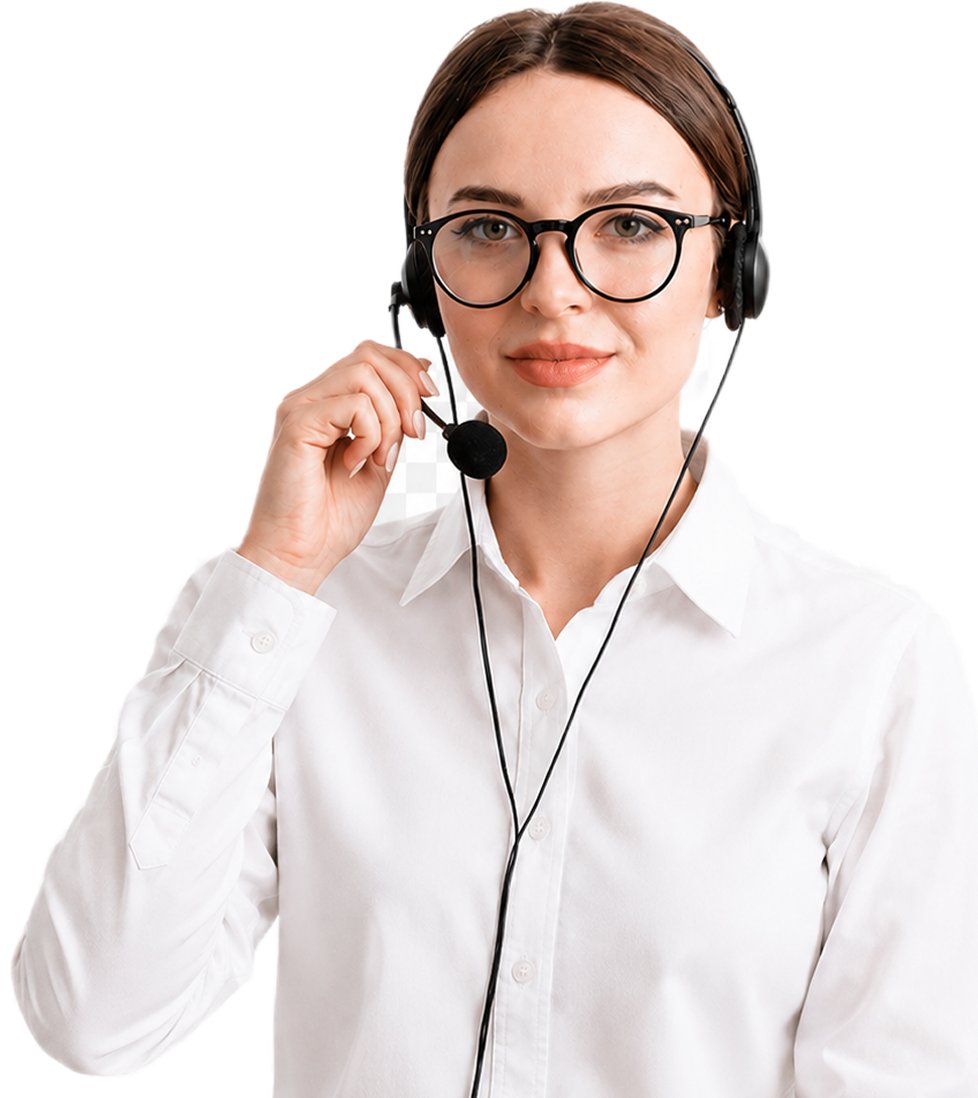
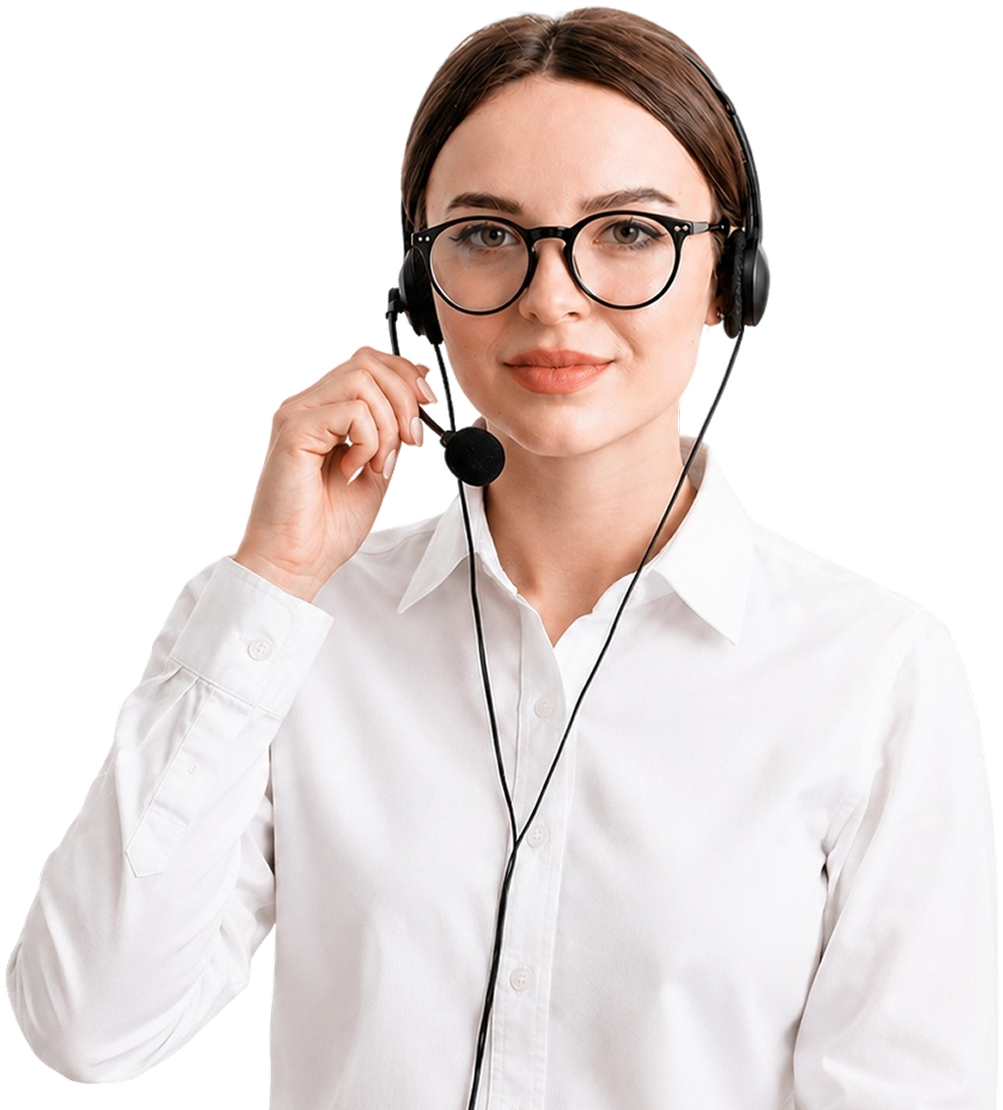
fix

diff --git a/app/paid-services.html b/app/paid-services.html
@@ -154,7 +154,7 @@
                 <p class="text-grayDark leading-[1.875]">Берём на&nbsp;себя показы и&nbsp;переговоры с&nbsp;арендаторами</p>
             </div>
             <div>
-                <h3 class="title-4-25 mb-4 md1:mb-3">Проконсультируем по&nbsp;юридическим вопросам</h3>
+                <h3 class="title-4-25 mb-4 md1:mb-3">Проконсультируем по юридическим вопросам</h3>
                 <p class="text-grayDark leading-[1.875]">Учитываем все нюансы аренды и&nbsp;особенности вашего обьекта</p>
             </div>
             <div>
@@ -208,7 +208,7 @@
             </picture>
         </div>
         <div
-            class="mt-5 md1:mt-4 bg-orangeLight rounded-32 md1:rounded-3xl overflow-hidden p-11 md1:px-6 md1:py-8 flex items-center justify-between relative gap-12 md2:gap-6 md2:flex-col">
+            class="mt-5 md1:mt-4 bg-orangeLight rounded-32 md1:rounded-3xl overflow-hidden p-10 md1:px-6 md1:py-8 flex items-center justify-between relative gap-12 md2:gap-6 md2:flex-col">
             <div class="mmd1:max-w-[393px] flex flex-col flex-grow">
                 <h2 class="title-4-25 !text-white !leading-[1.4]">Собственная онлайн платформа для контроля процеса проживания</h2>
             </div>
@@ -234,7 +234,7 @@
                 </picture>
                 <div class="w-60">
                     <p class="text-paragraph-3 !font-semibold cut cut-1">Дмитрий</p>
-                    <p class="text-paragraph-3 cut cut-1 text-[#a3a6a9] !text-[14px]">Основатель &laquo;КАК ДОМА&raquo;</p>
+                    <p class="text-paragraph-3 cut cut-1 text-[#a3a6a9] !text-[14px]">CEO &laquo;КАК ДОМА&raquo;</p>
                 </div>
             </div>
             <h2 class="title-4 mmd1:text-[22px] mmd1:max-w-[783px]">
@@ -336,20 +336,25 @@
                     height="280"
                     alt="" />
             </article>
-            <article class="rounded-20 p-10 pt-7 md1:p-6 flex flex-col border border-solid border-[#e0e0e0] h-[410px] md1:h-[350px]">
-                <p class="text-paragraph-2 text-grayDark">Отзыв</p>
-                <h3 class="title-4-5 mt-2 mb-auto !leading-[1.55]">
-                    Передала квартиру в&nbsp;управление. Всё прозрачно, жильцы найдены быстро, а&nbsp;оплату можно получать заранее&nbsp;&mdash; это
-                    действительно удобно
-                </h3>
-                <div class="mt-12 flex flex-col">
-                    <picture>
-                        <source srcset="./img/avatar-7.webp" type="image/webp" />
-                        <img loading="lazy" src="./img/avatar-7.png" width="50" height="50" alt="Фото Екатерины" />
-                    </picture>
-                    <p class="mt-5 text-paragraph-2 !font-bold cut cut-1">Екатерина А.</p>
-                    <p class="mt-1 font-medium leading-[1.24] text-[14px] text-[#A3A6A9]">Собственник аппартаментов</p>
+            <article
+                class="rounded-20 p-10 md1:p-6 flex flex-col border border-solid border-[#e0e0e0] h-[410px] md1:h-[350px] relative overflow-hidden">
+                <h3 class="title-4 mmd1:max-w-[363px]">Оборудуем системой удаленного заселения</h3>
+                <p class="text-paragraph-3 text-grayDark mt-4 md1:mt-3 mmd1:max-w-[274px]">Сервис, который арендаторы выбирают чаще</p>
+                <div class="mt-auto">
+                    <div class="mt-12 flex gap-3 md3:flex-col">
+                        <a href="/owner-account" class="btn btn-five btn-s-default">Подробнее</a>
+                    </div>
                 </div>
+                <picture>
+                    <source srcset="./img/automation-4.webp" type="image/webp" />
+                    <img
+                        loading="lazy"
+                        src="./img/automation-4.png"
+                        width="200"
+                        height="303"
+                        class="absolute bottom-0 right-0 md3:max-w-[170px] md3:-right-16 md1:hidden"
+                        alt="Автоматизация" />
+                </picture>
             </article>
         </div>
     </div>

diff --git a/src/partials/paid-services/banners-info.html b/src/partials/paid-services/banners-info.html
@@ -36,20 +36,25 @@
                     height="280"
                     alt="" />
             </article>
-            <article class="rounded-20 p-10 pt-7 md1:p-6 flex flex-col border border-solid border-[#e0e0e0] h-[410px] md1:h-[350px]">
-                <p class="text-paragraph-2 text-grayDark">Отзыв</p>
-                <h3 class="title-4-5 mt-2 mb-auto !leading-[1.55]">
-                    Передала квартиру в&nbsp;управление. Всё прозрачно, жильцы найдены быстро, а&nbsp;оплату можно получать заранее&nbsp;&mdash; это
-                    действительно удобно
-                </h3>
-                <div class="mt-12 flex flex-col">
-                    <picture>
-                        <source srcset="./img/avatar-7.webp" type="image/webp" />
-                        <img loading="lazy" src="./img/avatar-7.png" width="50" height="50" alt="Фото Екатерины" />
-                    </picture>
-                    <p class="mt-5 text-paragraph-2 !font-bold cut cut-1">Екатерина А.</p>
-                    <p class="mt-1 font-medium leading-[1.24] text-[14px] text-[#A3A6A9]">Собственник аппартаментов</p>
+            <article
+                class="rounded-20 p-10 md1:p-6 flex flex-col border border-solid border-[#e0e0e0] h-[410px] md1:h-[350px] relative overflow-hidden">
+                <h3 class="title-4 mmd1:max-w-[363px]">Оборудуем системой удаленного заселения</h3>
+                <p class="text-paragraph-3 text-grayDark mt-4 md1:mt-3 mmd1:max-w-[274px]">Сервис, который арендаторы выбирают чаще</p>
+                <div class="mt-auto">
+                    <div class="mt-12 flex gap-3 md3:flex-col">
+                        <a href="/owner-account" class="btn btn-five btn-s-default">Подробнее</a>
+                    </div>
                 </div>
+                <picture>
+                    <source srcset="./img/automation-4.webp" type="image/webp" />
+                    <img
+                        loading="lazy"
+                        src="./img/automation-4.png"
+                        width="200"
+                        height="303"
+                        class="absolute bottom-0 right-0 md3:max-w-[170px] md3:-right-16 md1:hidden"
+                        alt="Автоматизация" />
+                </picture>
             </article>
         </div>
     </div>

diff --git a/app/components.html b/app/components.html
@@ -431,6 +431,28 @@
     </div>
 </section>
 
+                    <section>
+    <div class="container-desktop mmd1:max-w-[1186px] !px-0">
+        <div class="flex flex-col gap-10">
+            <article class="rounded-20 p-10 pt-7 md1:p-6 flex flex-col border border-solid border-[#e0e0e0] h-[410px] md1:h-[350px]">
+                <p class="text-paragraph-2 text-grayDark">Отзыв</p>
+                <h3 class="title-4-5 mt-2 mb-auto !leading-[1.55]">
+                    Передала квартиру в&nbsp;управление. Всё прозрачно, жильцы найдены быстро, а&nbsp;оплату можно получать заранее&nbsp;&mdash; это
+                    действительно удобно
+                </h3>
+                <div class="mt-12 flex flex-col">
+                    <picture>
+                        <source srcset="./img/avatar-7.webp" type="image/webp" />
+                        <img loading="lazy" src="./img/avatar-7.png" width="50" height="50" alt="Фото Екатерины" />
+                    </picture>
+                    <p class="mt-5 text-paragraph-2 !font-bold cut cut-1">Екатерина А.</p>
+                    <p class="mt-1 font-medium leading-[1.24] text-[14px] text-[#A3A6A9]">Собственник аппартаментов</p>
+                </div>
+            </article>
+        </div>
+    </div>
+</section>
+
                </div>
             </main>
             <footer class="footer mt-24 md1:mt-16">

diff --git a/src/partials/components/others.html b/src/partials/components/others.html
@@ -1,0 +1,21 @@
+<section>
+    <div class="container-desktop mmd1:max-w-[1186px] !px-0">
+        <div class="flex flex-col gap-10">
+            <article class="rounded-20 p-10 pt-7 md1:p-6 flex flex-col border border-solid border-[#e0e0e0] h-[410px] md1:h-[350px]">
+                <p class="text-paragraph-2 text-grayDark">Отзыв</p>
+                <h3 class="title-4-5 mt-2 mb-auto !leading-[1.55]">
+                    Передала квартиру в&nbsp;управление. Всё прозрачно, жильцы найдены быстро, а&nbsp;оплату можно получать заранее&nbsp;&mdash; это
+                    действительно удобно
+                </h3>
+                <div class="mt-12 flex flex-col">
+                    <picture>
+                        <source srcset="./img/avatar-7.webp" type="image/webp" />
+                        <img loading="lazy" src="./img/avatar-7.png" width="50" height="50" alt="Фото Екатерины" />
+                    </picture>
+                    <p class="mt-5 text-paragraph-2 !font-bold cut cut-1">Екатерина А.</p>
+                    <p class="mt-1 font-medium leading-[1.24] text-[14px] text-[#A3A6A9]">Собственник аппартаментов</p>
+                </div>
+            </article>
+        </div>
+    </div>
+</section>

diff --git a/app/ads.html b/app/ads.html
@@ -371,7 +371,7 @@
             </article>
         </div>
         <div
-            class="mt-5 md1:mt-4 bg-orangeLight rounded-32 md1:rounded-3xl overflow-hidden p-11 md1:px-6 md1:py-8 flex items-center justify-between relative gap-12 md2:gap-6 md2:flex-col">
+            class="mt-5 md1:mt-4 bg-orangeLight rounded-32 md1:rounded-3xl overflow-hidden p-10 md1:px-6 md1:py-8 flex items-center justify-between relative gap-12 md2:gap-6 md2:flex-col">
             <div class="mmd1:max-w-[401px] flex flex-col flex-grow">
                 <h2 class="text-paragraph !text-white !leading-[1.4]">Не используем роботов для обработки звонков, только реальные диспетчеры</h2>
             </div>

diff --git a/src/partials/ads/remote-access-control-for-hoa.html b/src/partials/ads/remote-access-control-for-hoa.html
@@ -20,7 +20,7 @@
             </article>
         </div>
         <div
-            class="mt-5 md1:mt-4 bg-orangeLight rounded-32 md1:rounded-3xl overflow-hidden p-11 md1:px-6 md1:py-8 flex items-center justify-between relative gap-12 md2:gap-6 md2:flex-col">
+            class="mt-5 md1:mt-4 bg-orangeLight rounded-32 md1:rounded-3xl overflow-hidden p-10 md1:px-6 md1:py-8 flex items-center justify-between relative gap-12 md2:gap-6 md2:flex-col">
             <div class="mmd1:max-w-[401px] flex flex-col flex-grow">
                 <h2 class="text-paragraph !text-white !leading-[1.4]">Не используем роботов для обработки звонков, только реальные диспетчеры</h2>
             </div>

diff --git a/src/partials/paid-services/hero.html b/src/partials/paid-services/hero.html
@@ -70,7 +70,7 @@
                 <p class="text-grayDark leading-[1.875]">Берём на&nbsp;себя показы и&nbsp;переговоры с&nbsp;арендаторами</p>
             </div>
             <div>
-                <h3 class="title-4-25 mb-4 md1:mb-3">Проконсультируем по&nbsp;юридическим вопросам</h3>
+                <h3 class="title-4-25 mb-4 md1:mb-3">Проконсультируем по юридическим вопросам</h3>
                 <p class="text-grayDark leading-[1.875]">Учитываем все нюансы аренды и&nbsp;особенности вашего обьекта</p>
             </div>
             <div>

diff --git a/src/partials/paid-services/info.html b/src/partials/paid-services/info.html
@@ -8,7 +8,7 @@
                 </picture>
                 <div class="w-60">
                     <p class="text-paragraph-3 !font-semibold cut cut-1">Дмитрий</p>
-                    <p class="text-paragraph-3 cut cut-1 text-[#a3a6a9] !text-[14px]">Основатель &laquo;КАК ДОМА&raquo;</p>
+                    <p class="text-paragraph-3 cut cut-1 text-[#a3a6a9] !text-[14px]">CEO &laquo;КАК ДОМА&raquo;</p>
                 </div>
             </div>
             <h2 class="title-4 mmd1:text-[22px] mmd1:max-w-[783px]">

diff --git a/src/partials/paid-services/stable-income.html b/src/partials/paid-services/stable-income.html
@@ -37,7 +37,7 @@
             </picture>
         </div>
         <div
-            class="mt-5 md1:mt-4 bg-orangeLight rounded-32 md1:rounded-3xl overflow-hidden p-11 md1:px-6 md1:py-8 flex items-center justify-between relative gap-12 md2:gap-6 md2:flex-col">
+            class="mt-5 md1:mt-4 bg-orangeLight rounded-32 md1:rounded-3xl overflow-hidden p-10 md1:px-6 md1:py-8 flex items-center justify-between relative gap-12 md2:gap-6 md2:flex-col">
             <div class="mmd1:max-w-[393px] flex flex-col flex-grow">
                 <h2 class="title-4-25 !text-white !leading-[1.4]">Собственная онлайн платформа для контроля процеса проживания</h2>
             </div>

diff --git a/src/components.html b/src/components.html
@@ -15,6 +15,7 @@
                     @include('partials/components/contact-center-banner.html')
                     @include('partials/components/features-block.html')
                     @include('partials/components/branded-app-banner.html')
+                    @include('partials/components/others.html')
                </div>
             </main>
             @include('partials/footer.html')